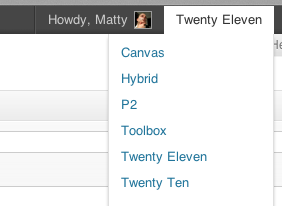
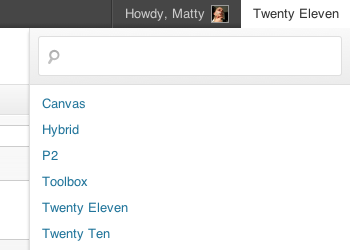
Adjusts the position of the 'reset' button when the search field has text (fixes overlapping reset button bug). Makes sure the search field focuses on hover of the menu. Updates screenshot.

diff --git a/assets/css/style.css b/assets/css/style.css
@@ -24,7 +24,7 @@ body.admin-color-classic #wpadminbar #wp-admin-bar-matty-theme-quickswitch .sear
 	background-image: linear-gradient(top,#F7FCFE,#EFF8FF);
 }
 #wpadminbar #wp-admin-bar-matty-theme-quickswitch .search-form .search { background: #FFFFFF url(../../../../../wp-includes/images/admin-bar-sprite.png) no-repeat 5px 10px; width: 100%; padding: 5px 30px 5px 30px; text-shadow: none; }
-#wpadminbar #wp-admin-bar-matty-theme-quickswitch .search-form .reset { background: transparent url(../images/btn-reset.png) no-repeat left top; display: block; width: 16px; height: 16px; text-indent: -9999px;position: absolute; right: -8px; margin-top: -28px; }
+#wpadminbar #wp-admin-bar-matty-theme-quickswitch .search-form .reset { background: transparent url(../images/btn-reset.png) no-repeat left top; display: block; width: 16px; height: 16px; text-indent: -9999px; position: absolute; right: 2px; margin-top: -28px; }
 
 #wpadminbar #wp-admin-bar-matty-theme-quickswitch #wp-admin-bar-heading-child-themes a, 
 #wpadminbar #wp-admin-bar-matty-theme-quickswitch #wp-admin-bar-heading-parent-themes a { color: #999999; font-style: italic; }

diff --git a/assets/js/functions.js b/assets/js/functions.js
@@ -98,6 +98,11 @@
 
 		mattyThemeQuickSwitch.add_search_box();
 
+		// Make sure the search field focuses when visible.
+		$( '#wp-admin-bar-matty-theme-quickswitch' ).mouseover( function ( e ) {
+			$( '#wp-admin-bar-matty-theme-quickswitch' ).find( 'input.search' ).focus();
+		});
+
 		$( '#wp-admin-bar-matty-theme-quickswitch' ).find( 'input.search' ).keyup( function ( e ) {
 			if ( $( this ).val() != '' ) {
 				mattyThemeQuickSwitch.perform_search( $( this ).val() );

diff --git a/matty-theme-quickswitch.php b/matty-theme-quickswitch.php
@@ -5,8 +5,8 @@ Plugin URI: http://matty.co.za/
 Description: Adds a quick theme switcher to the WordPress Admin Bar, aimed at speeding up rapid theme switching during theme development and maintenance.
 Author: Matty
 Author URI: http://matty.co.za/
-Version: 1.2.0
-Stable tag: 1.2.0
+Version: 1.2.1
+Stable tag: 1.2.1
 License: GPL v2 - http://www.gnu.org/licenses/old-licenses/gpl-2.0.html
 */
 
